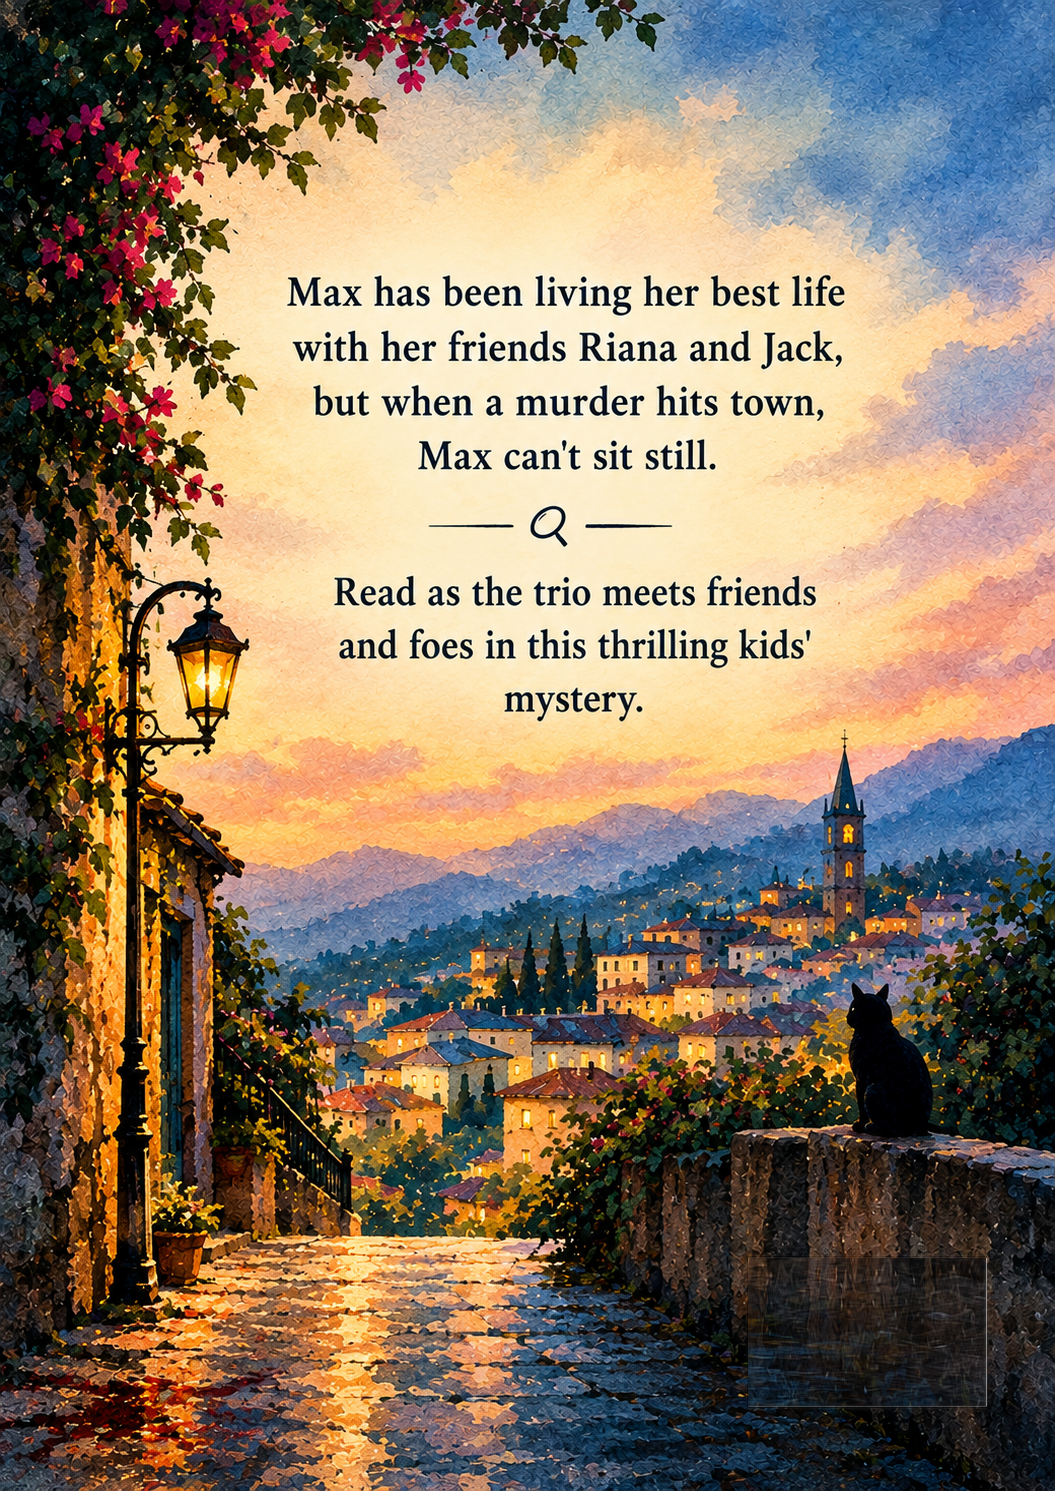
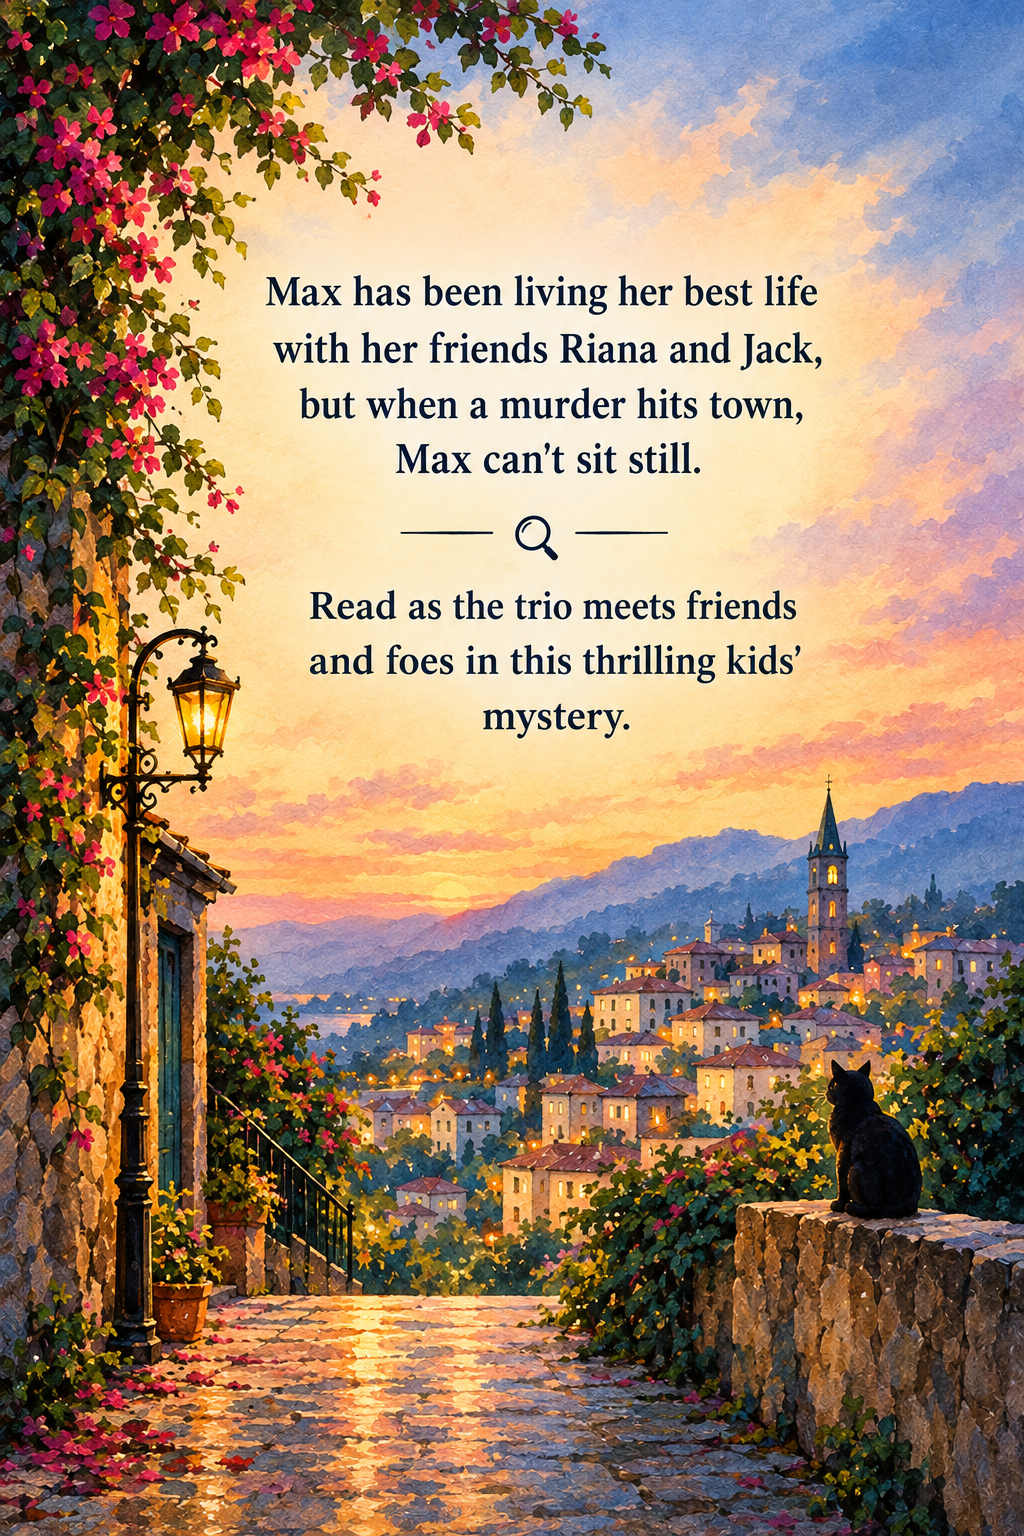
final touches

diff --git a/styles/style.css b/styles/style.css
@@ -76,7 +76,6 @@ p {
     margin-bottom: 0.85em;
     text-align: left;
     text-indent: 0 !important;
-    line-height: 1.5;
 }
 
 /* 3. Headings & Chapter Breaks */
@@ -105,7 +104,6 @@ h1::after {
 
 /* Suppress ornamental divider on Title Page and Back Cover */
 section.titlepage h1::after,
-section.titlepage h1.title::after,
 .back-cover-section h1::after {
     display: none !important;
     content: none !important;
@@ -122,24 +120,6 @@ hr {
     page-break-after: avoid;
 }
 
-hr.ornamental {
-    border: none;
-    height: auto;
-    background: transparent;
-    text-align: center;
-    margin: 2em 0;
-    overflow: visible;
-}
-
-hr.ornamental::after {
-    display: block;
-    content: "✧ ✧ ✧";
-    letter-spacing: 0.5em;
-    padding-left: 0.5em;
-    opacity: 0.6;
-    font-size: 1em;
-}
-
 /* 5. Title Page */
 section.titlepage {
     text-align: center;
@@ -151,8 +131,9 @@ section.titlepage {
     justify-content: space-between;
 }
 
-section.titlepage h1.title {
-    text-align: center;
+section.titlepage h1.title,
+h1.title {
+    text-align: center !important;
     font-size: 2em;
     font-weight: bold;
     margin-top: 0;
@@ -161,7 +142,10 @@ section.titlepage h1.title {
     break-before: avoid;
 }
 
-section.titlepage p.author {
+section.titlepage p.author,
+section.titlepage .author,
+p.author,
+.author {
     text-align: center !important;
     text-indent: 0 !important;
     font-size: 1.5em;
@@ -173,9 +157,12 @@ section.titlepage p.author {
 }
 
 section.titlepage div.rights,
-section.titlepage p.rights {
-    text-align: center;
-    text-indent: 0;
+section.titlepage p.rights,
+div.rights,
+p.rights,
+.rights {
+    text-align: center !important;
+    text-indent: 0 !important;
     font-size: 0.75em;
     opacity: 0.75;
     margin-top: auto;
@@ -191,6 +178,5 @@ blockquote {
 
 blockquote p {
     margin: 0;
-    line-height: 1.5;
     text-indent: 0 !important;
 }

diff --git a/README.md b/README.md
@@ -15,60 +15,80 @@ This repository follows industry-standard digital publishing and manuscript conv
 ├── .gitignore                   # Ignores build artifacts and OS caches
 ├── src/
 │   ├── metadata.yaml            # Dublin Core book metadata (title, author, rights, genre)
+│   ├── frontmatter/             # Front matter sections
+│   │   └── acknowledgments.md   # Author acknowledgments (placed before Chapter 1)
 │   ├── chapters/                # Modular chapter manuscript files
 │   │   ├── chapter-01.md
 │   │   ├── chapter-02.md
 │   │   ├── ...
 │   │   └── chapter-17.md        # "Hello, England"
-│   ├── backmatter/              # Standard publishing backmatter
-│   │   ├── acknowledgments.md   # Acknowledgments section
+│   ├── backmatter/              # Publishing backmatter
 │   │   ├── about-the-author.md  # Author biography
-│   │   └── back-cover.md        # Full-page SVG back cover wrapper
-│   ├── frontmatter/             # Front matter sections
-│   │   └── front-cover.md       # Front cover wrapper
-│   └── assets/                  # Artwork and vector overlays
-│       ├── front-cover.png      # High-res front cover artwork
-│       ├── back-cover.png       # High-res back cover artwork (barcode removed)
-│       ├── front-cover-overlay.svg # Transparent SVG title overlay
-│       └── back-cover-overlay.svg  # Transparent SVG blurb overlay
+│   │   └── back-cover.md        # Dedicated back cover section for EPUB
+│   └── assets/                  # High-resolution cover artwork
+│       ├── front-cover.png      # Front cover artwork
+│       └── back-cover.png       # Back cover artwork (barcode removed)
 ├── styles/
-│   └── style.css                # Reflowable EPUB CSS (reader-controlled typography)
+│   └── style.css                # Reflowable EPUB CSS (reader-controlled typography, ornamental breaks)
+├── templates/
+│   └── pdf-template.typst       # Typst template for printable A4/A5 book PDF
 ├── scripts/
 │   └── check_quotes.py          # Linter to verify straight quotes across manuscript
-└── output/                      # Generated ebooks (EPUB / PDF)
+└── output/                      # Generated book outputs (EPUB / PDF)
 ```
 
 ---
 
 ## Prerequisites
 
-- [Pandoc](https://pandoc.org/) (`>= 3.0`):
+- **[Pandoc](https://pandoc.org/)** (`>= 3.0`):
   ```bash
   brew install pandoc
   ```
-- Python 3 (standard on macOS)
-- (Optional for PDF print export) XeLaTeX / TeX Live
+- **[Typst](https://typst.app/)** (`>= 0.11`):
+  ```bash
+  brew install typst
+  ```
+- **Python 3** (standard on macOS)
 
 ---
 
 ## Building the Book
 
+- **Build Everything (EPUB & PDF)**:
+  ```bash
+  make all
+  ```
+
 - **Build EPUB 3 Ebook**:
   ```bash
   make epub
   ```
-  Generates `output/book.epub` with:
-  - True full-page front and back covers (SVG viewport matching reader screens).
-  - Reader-controlled typography (no hardcoded font or size).
-  - Clean table of contents and chapter navigation.
+  Generates `output/Aradhana_Mystery_Novel_001.epub` featuring:
+  - Full-bleed front and back raster covers without black letterboxing.
+  - Reader-controlled typography (line height `1.5`, flush-left conversational paragraphs).
+  - Ornamental star divider (`✧ ✧ ✧`) beneath chapter titles.
+  - Multi-line poem blocks with preserved line breaks.
+  - Seamless reading spine (Acknowledgments flips directly into Chapter 1).
+
+- **Build Printable PDF**:
+  ```bash
+  make pdf
+  ```
+  Generates `output/Aradhana_Mystery_Novel_001.pdf` configured for:
+  - **A4 reading & A5 book binding**: Set to `15.5pt` body font, which scales by $70.71\%$ ($1/\sqrt{2}$) to standard novel `11.0pt` when printed in A5.
+  - **Spine gutter margins**: `28mm` margins scale to `20mm` on A5, ensuring text never falls into the binding fold.
+  - Full-bleed edge-to-edge front and back cover pages.
+  - Title page with author and copyright notice.
+  - Running headers (small-caps book title) and centered page numbers.
 
 - **Verify Quotes**:
   ```bash
   make check-quotes
   ```
-  Audits all chapters and backmatter to ensure 100% straight quotes.
+  Audits all chapters and front/back matter to ensure 100% straight quotation marks.
 
-- **Clean Build Artifacts**:
+- **Clean Build Output**:
   ```bash
   make clean
   ```

diff --git a/src/chapters/chapter-08.md b/src/chapters/chapter-08.md
@@ -22,13 +22,17 @@ They searched for a while until Riana moved a photo with **Jesus Christ** on it.
 
 "Guys, I'm a genius!", says Riana excitedly.
 
-They lowered themselves into the staircase. On the table in the centre, a folded note was there. It read:
+They lowered themselves into the staircase.  
+
+On the table in the centre, a folded note was there.  
+
+It read:
 
 ---
 
 _Hello again, Idiots._
 
-_If you're wondering what my name is, the first five letters of the last name of the man in the photo you moved. Well dummies, your first clue is_ _**Mardley**_
+_If you're wondering what my name is, the first five letters of the last name of the man in the photo you moved. Well dummies, your first clue is_ _**Mardley**_.
 
 _Bad luck,_
 
